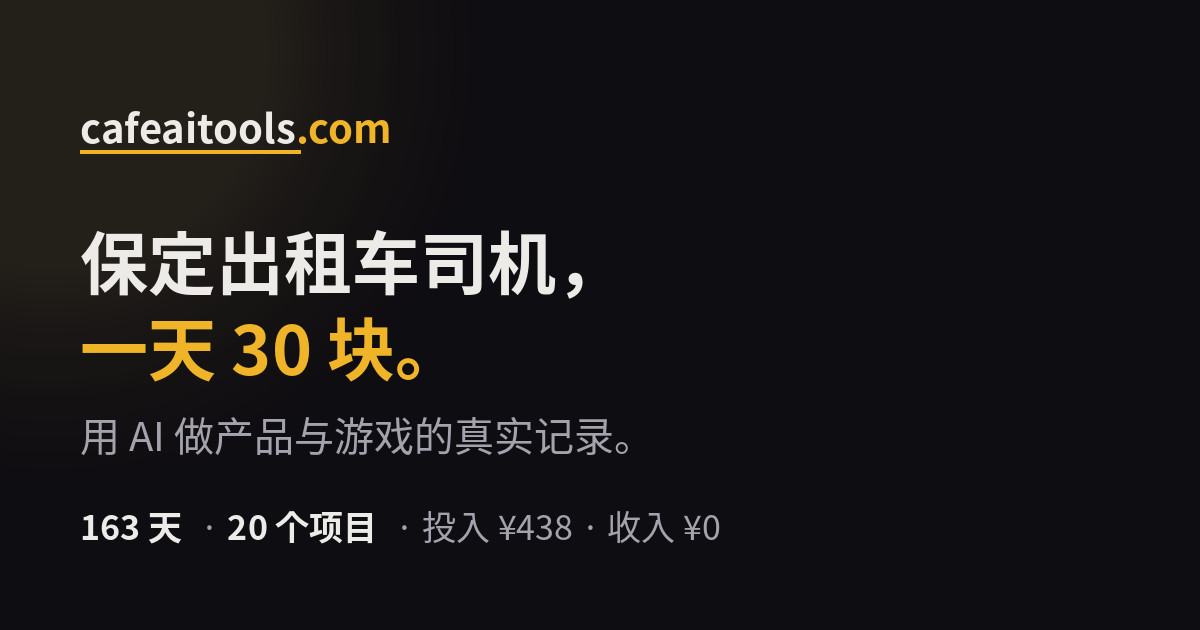
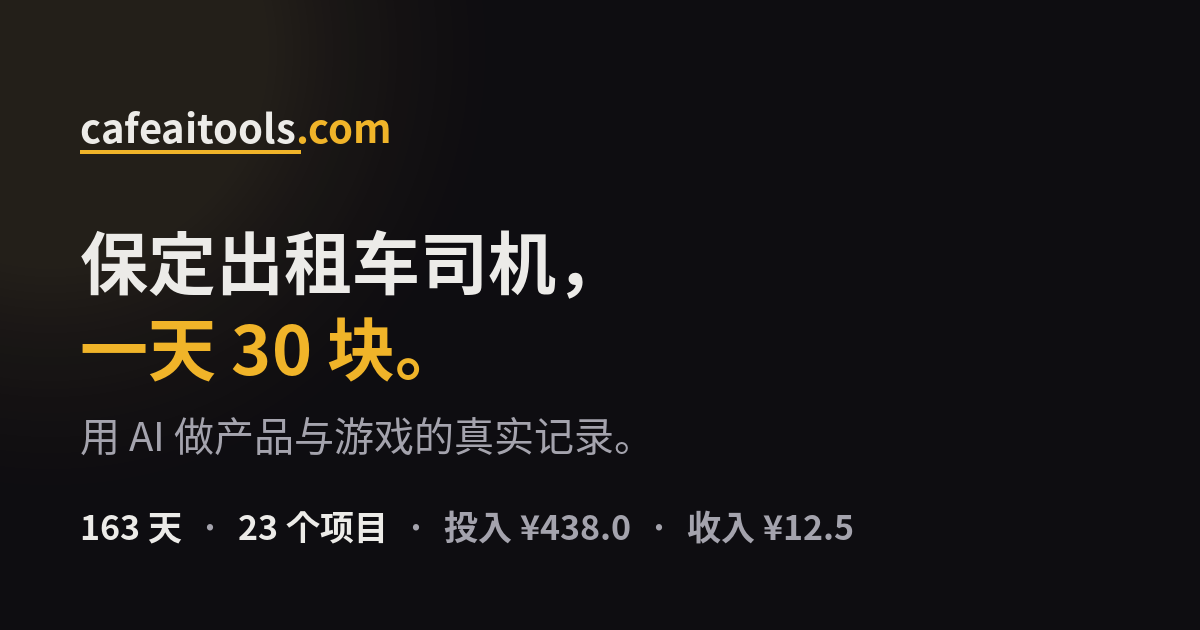
chore(daily): 自动同步 2026-10-21（17 项数据变动 · 日记 +66 提交 · 账本更新 · og-image）

Changed region(s): [[0.185, 0.8143, 0.7092, 0.8746]]

diff --git a/src/data/ledger.js b/src/data/ledger.js
@@ -1,8 +1,6 @@
 /**
- * 收支账本
+ * 收支账本（本文件由 scripts/daily_sync.py 根据 devlog-private/revenue/progress.md 自动生成，勿手改）
  * 投入和收入分开记 —— 不合并，不互相抵消。
- * 本文件由 scripts/daily_sync.py 根据 devlog-private/revenue/progress.md 每天自动重新生成，
- * 手改会被覆盖；要改数据请改那个 md（源文件），或改完 md 后手动跑一次脚本。
  *
  * 关于「跑车收入」：这是每天生活的底，不是项目的收入，所以单独记在这里做背景。
  * 最近两个月一天平均 30 块左右；5 月份行情好时一天能跑 100~150 块。
@@ -16,11 +14,11 @@ export const runIncome = [
 ];
 
 export const costs = [
-  { date: "2026-05-11", item: "useaitools.me 主站域名", amount: 135, note: "项目的起点" },
-  { date: "2026-05-15", item: "tryouraitools.com", amount: 85, note: "主推 .com" },
-  { date: "2026-05-15", item: "cafeaitools.com", amount: 85, note: "标注「未来项目」" },
-  { date: "2026-05-15", item: "useaitools.net", amount: 95, note: "品牌防守" },
-  { date: "2026-05-15", item: "useaitools.cn", amount: 38, note: "国内防守" },
+  { date: "2026-05-11", item: "`useaitools.me`", amount: 135.0, note: "主站域名" },
+  { date: "2026-05-15", item: "`tryouraitools.com`", amount: 85.0, note: "主推 .com" },
+  { date: "2026-05-15", item: "`cafeaitools.com`", amount: 85.0, note: "未来项目" },
+  { date: "2026-05-15", item: "`useaitools.net`", amount: 95.0, note: "品牌防守" },
+  { date: "2026-05-15", item: "`useaitools.cn`", amount: 38.0, note: "国内防守" },
 ];
 
 export const income = [
@@ -30,10 +28,11 @@ export const income = [
 ];
 
 export const affiliate = [
+  { platform: "平台", tool: "工具", commission: "佣金", date: "申请日期", status: "pending", note: "状态" },
   { platform: "Rytr 官网", tool: "Rytr", commission: "30% / 12个月", date: "2026-05-15", status: "approved", note: "第一个拿下的联盟链接" },
-  { platform: "Impact", tool: "AppSumo", commission: "100% 新用户", date: "2026-05-13", status: "rejected", note: "被拒：新网站缺乏流量" },
+  { platform: "Impact", tool: "AppSumo", commission: "100%新用户", date: "2026-05-13", status: "rejected", note: "被拒：新网站缺乏流量" },
   { platform: "PartnerStack", tool: "ElevenLabs", commission: "22% / 12个月", date: "2026-05-13", status: "rejected", note: "被拒：网吧 IP 风控误判" },
-  { platform: "PartnerStack", tool: "Descript", commission: "$25 / 次", date: "2026-05-13", status: "rejected", note: "同上" },
+  { platform: "PartnerStack", tool: "Descript", commission: "$25/次", date: "2026-05-13", status: "rejected", note: "同上" },
   { platform: "邮件申请", tool: "Jasper", commission: "待确认", date: "2026-05-15", status: "pending", note: "无下文" },
   { platform: "邮件申请", tool: "Copy.ai", commission: "待确认", date: "2026-05-15", status: "pending", note: "无下文" },
 ];

diff --git a/src/data/stats.js b/src/data/stats.js
@@ -4,13 +4,13 @@
  * 页面一律从这里读数字，不再硬编码——脚本换数，全站跟着变。
  */
 export const stats = {
-  asOf: "2026-10-21", // 数据日期（Asia/Shanghai）
-  days: 163, // 距 2026-05-11 的天数
-  projects: 21, // 产品仓数量
-  repos: 24, // 全部仓库数（含 cafe-log / mind-vault / devlog-private）
-  commits: 1469, // 总提交次数
-  commitBucket: "1400+", // 提交数约数（ prose 用）
-  cost: 438, // 累计投入 ¥
-  income: 0, // 累计收入 ¥
-  online: 7, // 在线可访问项目数
+  "asOf": "2026-10-21",
+  "days": 163,
+  "projects": 23,
+  "repos": 23,
+  "commits": 1900,
+  "commitBucket": "1900+",
+  "cost": 438.0,
+  "income": 12.5,
+  "online": 7
 };
